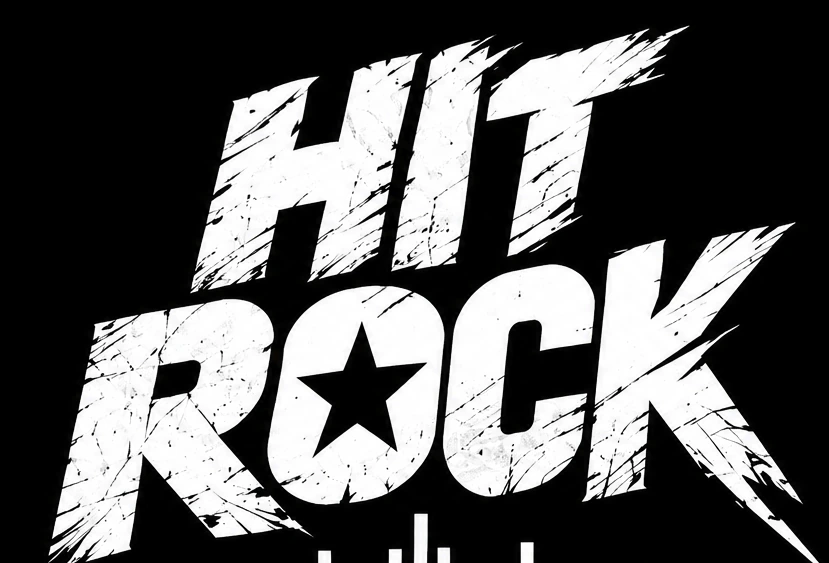
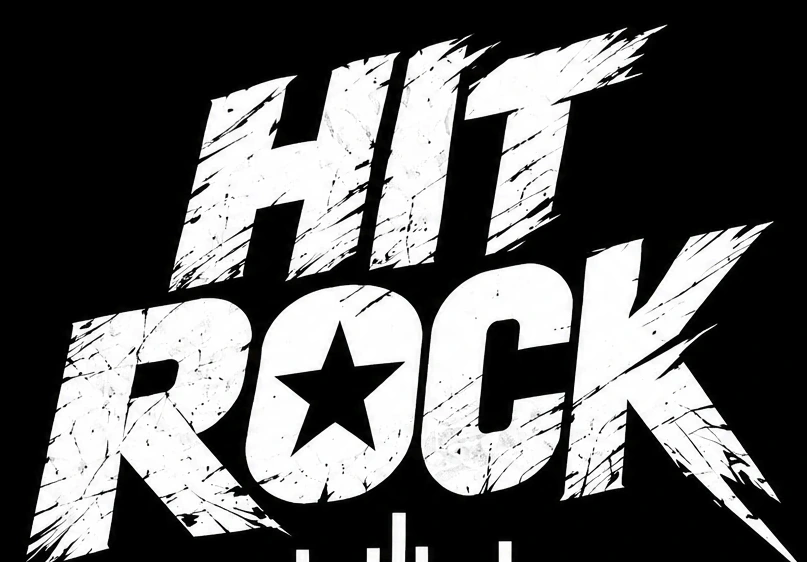
Add files via upload

diff --git a/index.html b/index.html
@@ -121,8 +121,8 @@ border:none!important;outline:none!important;box-shadow:none!important
 </style>
 <style>
 .menuBrandLogo{display:none!important}
-.menuBrandFinal{width:min(58vw,235px);margin:0 auto 10px;line-height:0;overflow:hidden}
-.menuBrandFinal img{display:block;width:100%;height:auto;object-fit:contain}
+.menuBrandFinal{width:min(56vw,225px);margin:4px auto 12px;line-height:0;overflow:hidden}
+.menuBrandFinal img{display:block;width:100%;height:auto}
 </style>
 </head><body><div id="hitrockSplash" aria-hidden="true">
  <img class="hrSplashImage" src="hitrock-splash.webp" alt="">
@@ -203,7 +203,7 @@ border:none!important;outline:none!important;box-shadow:none!important
 </div>
 <div class="objective"><span>OBJETIVO DESTA FASE</span><strong id="festivalIntroObjective"></strong><div id="festivalIntroHelp" class="hint"></div></div>
 <div class="buttons"><button class="primary" id="festivalReady">Estou pronto — ler carta</button></div>
-</div><div id="scanView" class="hidden"><div id="reader"><video id="video" playsinline muted></video><div class="frame"></div></div><div class="status" id="status">Aponta a câmara ao QR HIT ROCK</div><div class="buttons"><button class="primary" id="start">Ligar câmara</button></div><div class="manual"><input id="manual" placeholder="HR0001 ou 0001"><button class="secondary" id="go">OK</button></div></div><div id="gameView" class="hidden"><div class="result"><div class="cardno" id="cardno"></div><div id="challenge" class="challenge hidden"><span id="wheel" class="wheel">🎡</span><div class="label">DESAFIO</div><div class="value" id="challengeText"></div></div><div id="festivalBoard" class="festivalBoard hidden"><div id="currentPlayer" class="currentPlayer"></div><div class="festTop" id="festTurn"></div><div class="festStage" id="festStage"></div><div class="festEvent" id="festEvent"></div><div class="festScores" id="festScores" style="display:none!important"></div><div id="festActions" class="festActions hidden"><button class="success" id="festHit">✅ ACERTOU</button><button class="fail" id="festMiss">❌ FALHOU</button></div></div><div id="flipView" class="flipmsg"><span class="phone">📱</span><h2>Vira o telemóvel para baixo</h2><p>Mantém o ecrã para cima enquanto lês. Depois vira o telemóvel completamente, com o ecrã virado para baixo.</p><div class="turnprogress"><i id="turnbar"></i></div><div id="motionNote" class="hint"></div></div><div id="playingView" class="hidden"><div class="secret">🎸 A TOCAR</div><p>Adivinha antes de revelar.</p><div class="spotifybox" id="spotifybox"></div><div class="buttons"><button class="secondary" id="revealBtn">Revelar resposta</button></div><div class="reveal hidden" id="answer"><h2 id="title"></h2><div class="year" id="year"></div><div class="artist" id="artist"></div></div><div class="buttons"><button class="danger" id="next">Próxima carta</button></div></div></div></div></section></main><div class="signature">by Videira · v1.82</div>
+</div><div id="scanView" class="hidden"><div id="reader"><video id="video" playsinline muted></video><div class="frame"></div></div><div class="status" id="status">Aponta a câmara ao QR HIT ROCK</div><div class="buttons"><button class="primary" id="start">Ligar câmara</button></div><div class="manual"><input id="manual" placeholder="HR0001 ou 0001"><button class="secondary" id="go">OK</button></div></div><div id="gameView" class="hidden"><div class="result"><div class="cardno" id="cardno"></div><div id="challenge" class="challenge hidden"><span id="wheel" class="wheel">🎡</span><div class="label">DESAFIO</div><div class="value" id="challengeText"></div></div><div id="festivalBoard" class="festivalBoard hidden"><div id="currentPlayer" class="currentPlayer"></div><div class="festTop" id="festTurn"></div><div class="festStage" id="festStage"></div><div class="festEvent" id="festEvent"></div><div class="festScores" id="festScores" style="display:none!important"></div><div id="festActions" class="festActions hidden"><button class="success" id="festHit">✅ ACERTOU</button><button class="fail" id="festMiss">❌ FALHOU</button></div></div><div id="flipView" class="flipmsg"><span class="phone">📱</span><h2>Vira o telemóvel para baixo</h2><p>Mantém o ecrã para cima enquanto lês. Depois vira o telemóvel completamente, com o ecrã virado para baixo.</p><div class="turnprogress"><i id="turnbar"></i></div><div id="motionNote" class="hint"></div></div><div id="playingView" class="hidden"><div class="secret">🎸 A TOCAR</div><p>Adivinha antes de revelar.</p><div class="spotifybox" id="spotifybox"></div><div class="buttons"><button class="secondary" id="revealBtn">Revelar resposta</button></div><div class="reveal hidden" id="answer"><h2 id="title"></h2><div class="year" id="year"></div><div class="artist" id="artist"></div></div><div class="buttons"><button class="danger" id="next">Próxima carta</button></div></div></div></div></section></main><div class="signature">by Videira · v1.83</div>
 
 
 <button id="homeMenuBtn" aria-label="Voltar ao menu inicial"
@@ -928,7 +928,7 @@ function quizFinishRound(){if(!quizHost||!quizCurrent||quizCurrent.done)return;q
 function quizShowResults(m,end=false){clearInterval(quizTimerId);$('quizGame').classList.add('hidden');$('quizLobby').classList.add('hidden');$('quizResults').classList.remove('hidden');$('quizResultTitle').textContent=end?'🏆 RESULTADO FINAL':'RESPOSTA · '+(m.correctText||'');$('quizScores').innerHTML=(m.players||[]).map((p,i)=>'<div class="quizPlayer"><span>'+(i===0?'🏆 ':'')+quizEsc(p.name)+(p.gain?' <small>+'+p.gain+'</small>':'')+'</span><strong>'+p.score+' pts</strong></div>').join('');$('quizNext').classList.toggle('hidden',!quizHost||end);}
 $('quizCreate').onclick=quizCreateRoom;$('quizJoinShow').onclick=()=>{$('quizJoinBox').classList.toggle('hidden')};$('quizJoin').onclick=quizJoinRoom;$('quizStartGame').onclick=quizStart;$('quizNext').onclick=quizNextRound;
 
-window.addEventListener('beforeunload',stop);if('serviceWorker'in navigator)navigator.serviceWorker.register('sw.js?v=1.82',{updateViaCache:'none'}).then(r=>r.update()).catch(()=>{});
+window.addEventListener('beforeunload',stop);if('serviceWorker'in navigator)navigator.serviceWorker.register('sw.js?v=1.83',{updateViaCache:'none'}).then(r=>r.update()).catch(()=>{});
 </script><script>
 (function(){
  const splash=document.getElementById('hitrockSplash');

diff --git a/sw.js b/sw.js
@@ -1,4 +1,4 @@
-const C='hitrock-v1.82';
+const C='hitrock-v1.83';
 const CORE=['./songs.json','./manifest.webmanifest','./icon-192.png','./icon-512.png','./apple-touch-icon.png'];
 
 self.addEventListener('install',event=>{
